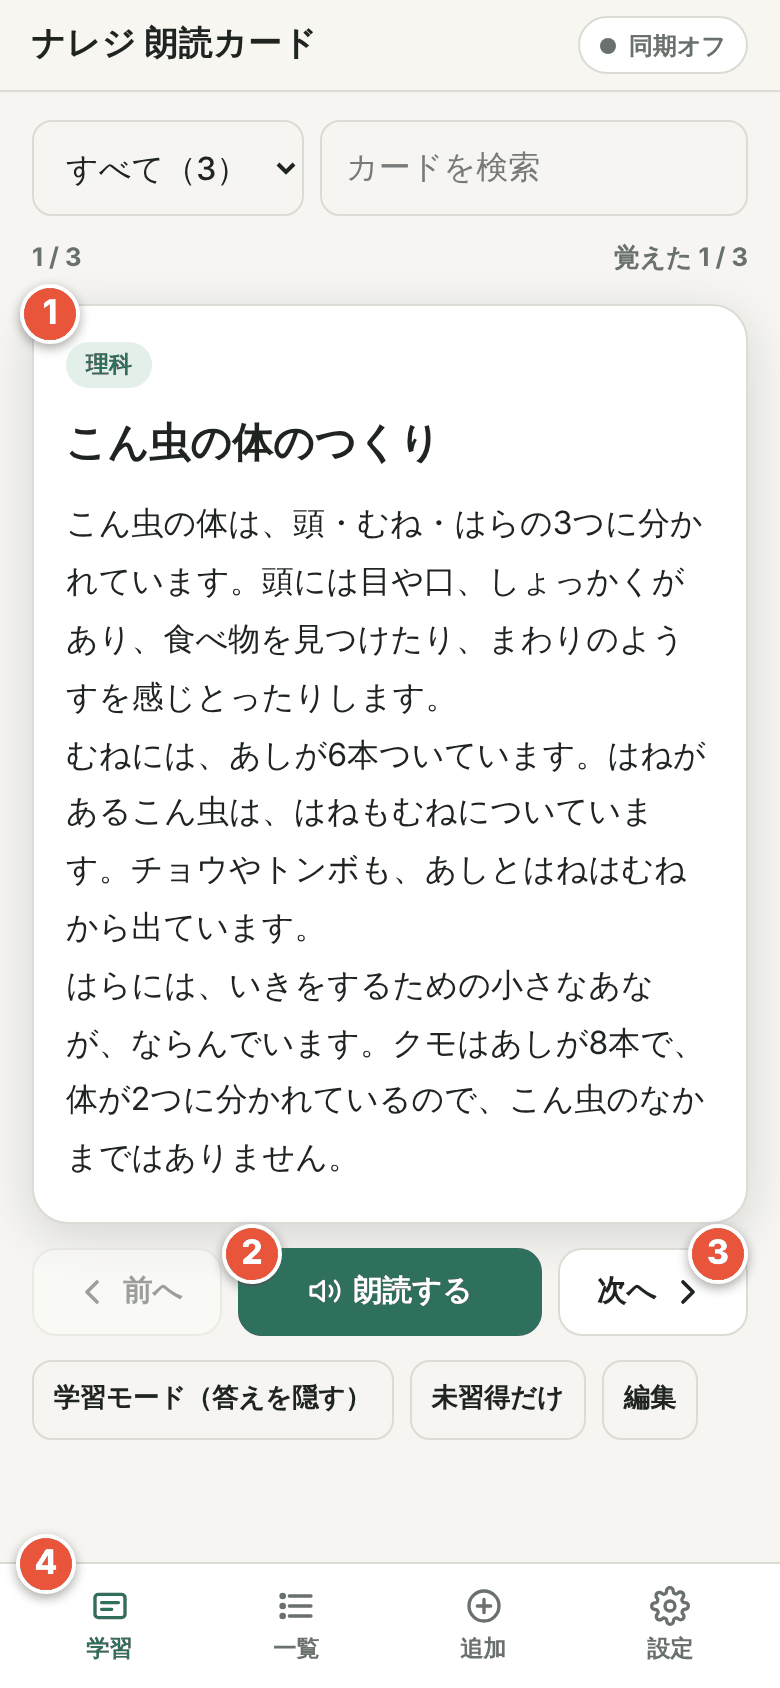
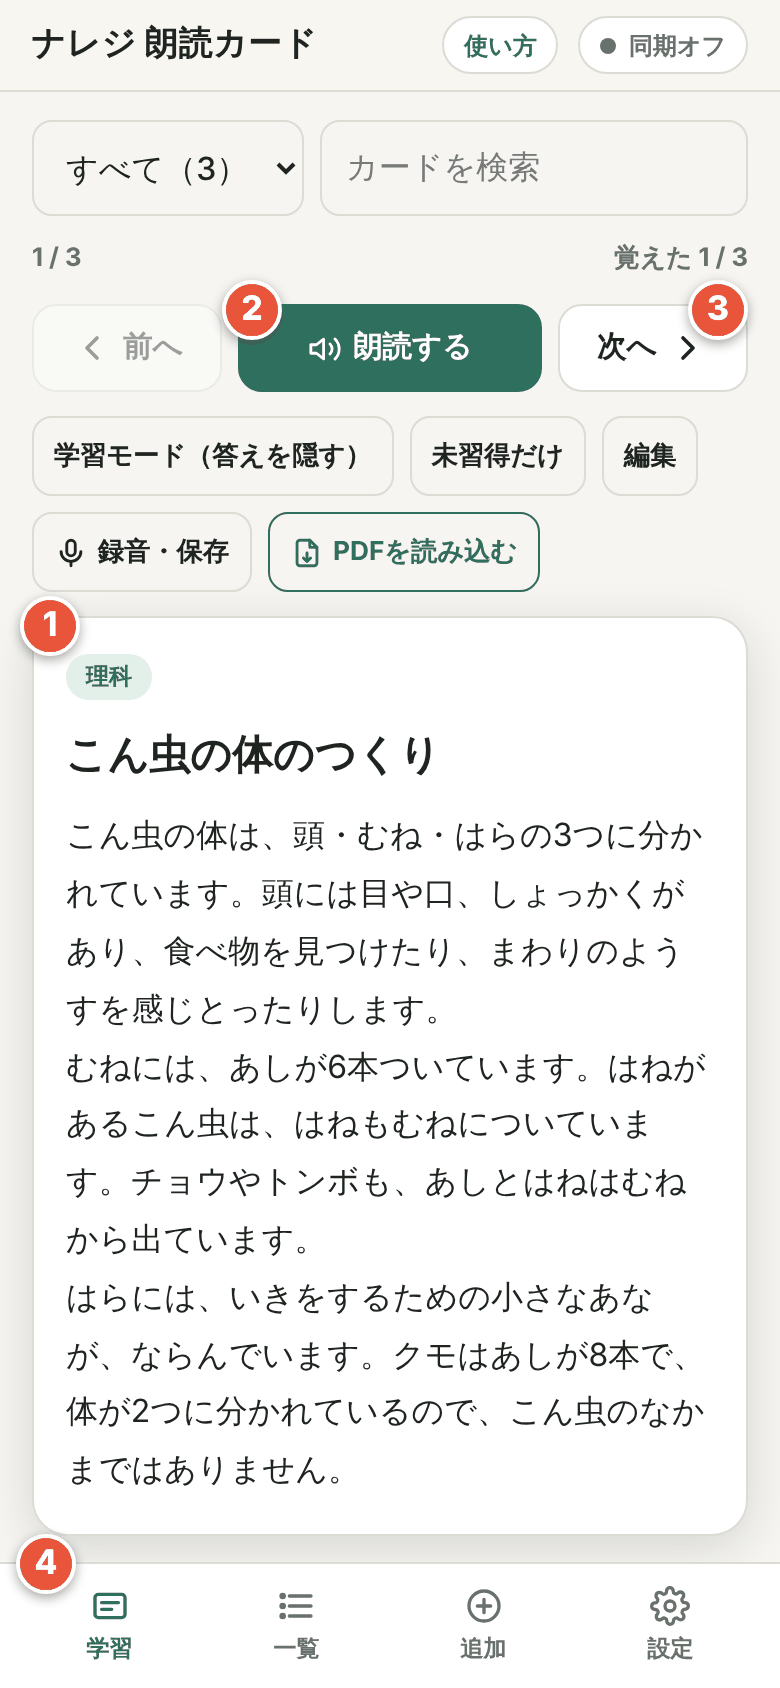
単語帳アプリの操作ボタンをカードの上に移動
- 前へ・朗読・次へ、覚えた/まだ、学習モード・未習得だけ・編集・録音・保存・PDFを読み込む を、カードの上に配置
  （長いカードでも下までスクロールせずに操作できるように）
- 長いカードを下まで読んでから前後のカードへ移ったら、ページの先頭にもどす
- 使い方マニュアルの画面写真を新しい並びに撮り直し

Claude-Session: https://claude.ai/code/session_01AgZU1WK1NqAfxT5bbf8C94

diff --git a/narreji/index.html b/narreji/index.html
@@ -280,19 +280,6 @@ fieldset.choice input{width:20px;height:20px;margin-top:2px;accent-color:var(--a
       <button class="btn pdf-open" type="button" data-pdf-open><svg class="ico sm" viewBox="0 0 24 24" fill="none" stroke="currentColor" stroke-width="2" stroke-linecap="round" stroke-linejoin="round" aria-hidden="true"><path d="M14 3H7a2 2 0 0 0-2 2v14a2 2 0 0 0 2 2h10a2 2 0 0 0 2-2V8z"/><polyline points="14 3 14 8 19 8"/><path d="M12 12v6M9.5 15.5 12 18l2.5-2.5"/></svg><span>PDFを読み込む</span></button>
     </div>
 
-    <article class="card" id="card" hidden>
-      <div class="card-top">
-        <span class="tag" id="card-cat"></span>
-        <span class="ok-badge" id="card-ok" hidden>✓ 覚えた</span>
-      </div>
-      <div class="card-yomi" id="card-yomi" hidden></div>
-      <h2 class="card-title" id="card-title"></h2>
-      <div class="desc-wrap">
-        <div class="desc" id="desc"></div>
-        <button class="desc-mask" id="desc-mask" type="button" hidden>タップして答えを表示</button>
-      </div>
-    </article>
-
     <div class="card-actions" id="card-actions" hidden>
       <button class="btn" id="prev" type="button" aria-label="前のカード"><svg class="ico" viewBox="0 0 24 24" fill="none" stroke="currentColor" stroke-width="2.2" stroke-linecap="round" stroke-linejoin="round" aria-hidden="true"><polyline points="15 18 9 12 15 6"/></svg><span>前へ</span></button>
       <button class="btn primary" id="speak" type="button"></button>
@@ -309,6 +296,20 @@ fieldset.choice input{width:20px;height:20px;margin-top:2px;accent-color:var(--a
       <button class="ibtn" id="open-rec" type="button"><svg class="ico sm" viewBox="0 0 24 24" fill="none" stroke="currentColor" stroke-width="2" stroke-linecap="round" stroke-linejoin="round" aria-hidden="true"><rect x="9" y="3" width="6" height="11" rx="3"/><path d="M5 11a7 7 0 0 0 14 0M12 18v3"/></svg><span>録音・保存</span></button>
       <button class="ibtn pdf-open" type="button" data-pdf-open><svg class="ico sm" viewBox="0 0 24 24" fill="none" stroke="currentColor" stroke-width="2" stroke-linecap="round" stroke-linejoin="round" aria-hidden="true"><path d="M14 3H7a2 2 0 0 0-2 2v14a2 2 0 0 0 2 2h10a2 2 0 0 0 2-2V8z"/><polyline points="14 3 14 8 19 8"/><path d="M12 12v6M9.5 15.5 12 18l2.5-2.5"/></svg><span>PDFを読み込む</span></button>
     </div>
+
+    <!-- カードは操作ボタンの下（長いカードでもボタンがすぐ押せるように） -->
+    <article class="card" id="card" hidden>
+      <div class="card-top">
+        <span class="tag" id="card-cat"></span>
+        <span class="ok-badge" id="card-ok" hidden>✓ 覚えた</span>
+      </div>
+      <div class="card-yomi" id="card-yomi" hidden></div>
+      <h2 class="card-title" id="card-title"></h2>
+      <div class="desc-wrap">
+        <div class="desc" id="desc"></div>
+        <button class="desc-mask" id="desc-mask" type="button" hidden>タップして答えを表示</button>
+      </div>
+    </article>
   </section>
 
   <!-- 一覧タブ -->
@@ -711,11 +712,14 @@ const cur=()=>byId(view.order[view.idx]);
 function select(i,keepTts){
   if(!view.order.length)return;
   const ni=Math.max(0,Math.min(view.order.length-1,i));
-  if(ni!==view.idx)view.revealed=false;
+  const changed=ni!==view.idx;
+  if(changed)view.revealed=false;
   view.idx=ni;
   state.opts.curId=view.order[ni]||null;
   saveOpts();
   renderCard();
+  // 長いカードを下まで読んだあとに次のカードへ進んだら、ボタンとカードの先頭が見える位置にもどす
+  if(changed&&!$("tab-study").hidden&&window.scrollY>0)window.scrollTo({top:0,behavior:"smooth"});
   if(!keepTts)renderList();
 }
 

diff --git a/narreji/manual/index.html b/narreji/manual/index.html
@@ -248,7 +248,7 @@ footer{padding-bottom:calc(env(safe-area-inset-bottom,0px) + 40px);color:var(--m
       <div class="pair">
         <div>
           <div class="shot"><img src="img/mask.png" alt="学習モードで答えがぼかされ、タップして答えを表示のボタンに①の番号" width="390" height="420"></div>
-          <div class="shot" style="margin-top:14px"><img src="img/learn.png" alt="答えを表示したあと。まだ次へのボタンに②、覚えた次へのボタンに③の番号" width="390" height="246"></div>
+          <div class="shot" style="margin-top:14px"><img src="img/learn.png" alt="答えを表示したあと。まだ次へのボタンに②、覚えた次へのボタンに③の番号" width="390" height="130"></div>
         </div>
         <div>
           <ul class="legend">
